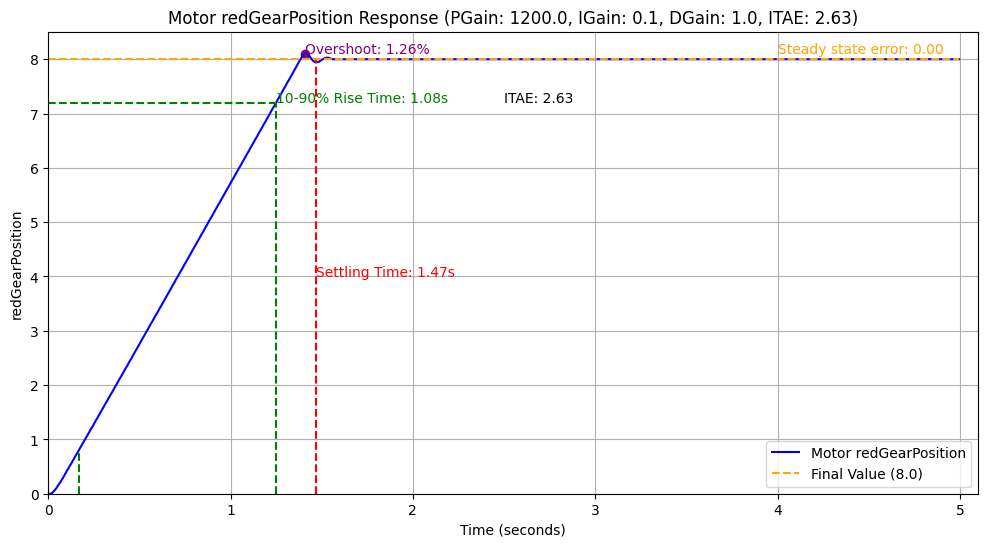
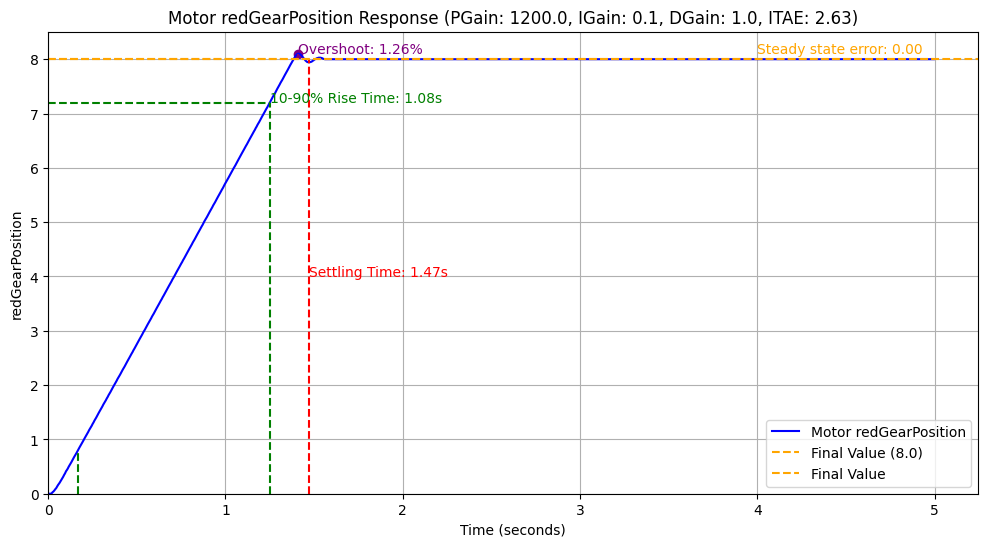
make graph_img and add dataplot_saveall

diff --git a/project1_dataplot.py b/project1_dataplot.py
@@ -1,96 +1,98 @@
 import pandas as pd
 import matplotlib.pyplot as plt
-import numpy as np
-from scipy.signal import find_peaks
 import re
+from scipy.signal import find_peaks
+import numpy as np
 
-# Constants
-FINAL_VALUE = 8.0
-TOLERANCE = 0.02 * FINAL_VALUE
+# Load the CSV file into a pandas DataFrame
 
-# Extract the gains from the file name using regular expressions
 file_name = "1200.0_0.1_1.0.csv"
 match = re.match(r"(\d+\.\d+)_(\d+\.\d+)_(\d+\.\d+)", file_name)
 if match:
     pgain, igain, dgain = match.groups()
+    
+file_path = './csv/' + file_name
+data = pd.read_csv(file_path, header=None, names=['Time', 'redGearPosition'], skipfooter=1, engine='python')
 
-# Set file paths
-file_path = f'./csv/{file_name}'
-graph_img_path = f"./graph_img/{pgain}_{igain}_{dgain}_response.png"
-
-# Read the data and ITAE value from the CSV
-data = pd.read_csv(file_path, header=None, names=['Time', 'Position'], skipfooter=1, engine='python')
 with open(file_path, 'r') as f:
-    itae_value = float(f.readlines()[-1].strip().split(',')[-1])
+    last_line = f.readlines()[-1].strip()
+    _, itae_value_str = last_line.split(',')
+    itae_value = float(itae_value_str)
 
-# Calculate the rise time (10% to 90% of the final value)
-rise_time_start = data['Time'][data['Position'] >= 0.1 * FINAL_VALUE].iloc[0]
-rise_time_end = data['Time'][data['Position'] >= 0.9 * FINAL_VALUE].iloc[0]
+
+# Define the final value as the constant 8
+final_value = 8.0
+
+# Calculate rise time from 10% to 90% of the final value
+rise_time_start = data['Time'][data['redGearPosition'] >= 0.1 * final_value].iloc[0]
+rise_time_end = data['Time'][data['redGearPosition'] >= 0.9 * final_value].iloc[0]
 rise_time = rise_time_end - rise_time_start
 
 # Find peak time
-peak_time = data['Time'][data['Position'] == data['Position'].max()].iloc[0]
+peak_time = data['Time'][data['redGearPosition'] == data['redGearPosition'].max()].iloc[0]
 
-# Find peaks and troughs to determine the settling time
-peaks, _ = find_peaks(data['Position'], height=FINAL_VALUE * (1 - TOLERANCE))
-troughs, _ = find_peaks(-data['Position'], height=-FINAL_VALUE * (1 + TOLERANCE))
+# 최종 값에 대한 허용 오차 범위 설정 (2%)
+tolerance = 0.02 * final_value
+
+# 최대값과 최소값(극값) 인덱스 찾기
+peaks, _ = find_peaks(data['redGearPosition'], height=final_value * (1 - tolerance))
+troughs, _ = find_peaks(-data['redGearPosition'], height=-final_value * (1 + tolerance))
+
+# 모든 극값 인덱스 결합
 extrema = np.sort(np.concatenate((peaks, troughs)))
 
-# Find the first extremum within the tolerance after the peak time
-settling_time = next((data['Time'][extremum] for extremum in extrema 
-                      if data['Time'][extremum] > peak_time and 
-                      FINAL_VALUE * (1 - TOLERANCE) <= data['Position'][extremum] <= FINAL_VALUE * (1 + TOLERANCE)),
-                     None)
+# peak_time 이후 최종 값 범위 내에 들어서는 첫 번째 극값 찾기
+for extrema_index in extrema:
+    if data['Time'][extrema_index] > peak_time:
+        if data['redGearPosition'][extrema_index] <= final_value * (1 + tolerance) and \
+           data['redGearPosition'][extrema_index] >= final_value * (1 - tolerance):
+            settling_time = data['Time'][extrema_index]
+            break
 
-# Calculate steady state error (SSE)
-steady_state_error = FINAL_VALUE - data['Position'].iloc[-1]
 
-# Plot the motor position response
+# Calculate steady state error (SSE) as the difference between the final value and the last redGearPosition value
+steady_state_error = final_value - data['redGearPosition'].iloc[-1]
+
+# Plotting the updated data with annotations for settling time and SSE
 plt.figure(figsize=(12, 6))
-plt.plot(data['Time'], data['Position'], label='Motor Position', color='blue')
+plt.plot(data['Time'], data['redGearPosition'], label='Motor redGearPosition', color='blue')
 
-# Annotate rise time
-plt.annotate(f'10-90% Rise Time: {rise_time:.2f}s', 
-             xy=(rise_time_end, FINAL_VALUE * 0.9), 
-             xytext=(rise_time_end, FINAL_VALUE * 0.95), 
-             arrowprops=dict(facecolor='green', shrink=0.05), 
-             color='green')
+# Annotate the rise time (10% to 90% of the final value)
+plt.plot([0, rise_time_end], [final_value * 0.9, final_value * 0.9], color='green', linestyle='--')
+plt.plot([rise_time_start, rise_time_start], [0, final_value * 0.1], color='green', linestyle='--')
+plt.plot([rise_time_end, rise_time_end], [0, final_value * 0.9], color='green', linestyle='--')
+plt.text(rise_time_end, final_value * 0.9, f'10-90% Rise Time: {rise_time:.2f}s', color='green')
 
-# Annotate settling time
-if settling_time:
-    plt.annotate(f'Settling Time: {settling_time:.2f}s', 
-                 xy=(settling_time, FINAL_VALUE), 
-                 xytext=(settling_time + 0.2, FINAL_VALUE * 0.5), 
-                 arrowprops=dict(facecolor='red', shrink=0.05), 
-                 color='red')
+# Annotate the settling time (first time after peak within 2% of final value)
+plt.plot([settling_time, settling_time], [0, final_value], color='red', linestyle='--')
+plt.text(settling_time, final_value * 0.5, f'Settling Time: {settling_time:.2f}s', color='red')
 
-# Annotate overshoot
-overshoot_value = data['Position'].max() - FINAL_VALUE
-overshoot_time = data['Time'][data['Position'] == data['Position'].max()].iloc[0]
-overshoot_percentage = (overshoot_value / FINAL_VALUE) * 100
-plt.annotate(f'Overshoot: {overshoot_percentage:.2f}%', 
-             xy=(overshoot_time, data['Position'].max()), 
-             xytext=(overshoot_time + 0.1, data['Position'].max() + 0.5), 
-             arrowprops=dict(facecolor='purple', shrink=0.05), 
-             color='purple')
+# Annotate the overshoot (percentage over the final value)
+# Calculate overshoot as the value over the final value
+overshoot_value = data['redGearPosition'].max() - final_value
+overshoot_time = data['Time'][data['redGearPosition'] == data['redGearPosition'].max()].iloc[0]
+overshoot_percentage = (data['redGearPosition'].max() - final_value) / final_value * 100
+plt.plot([overshoot_time, overshoot_time], [final_value, data['redGearPosition'].max()], color='purple', linestyle='--')
+plt.scatter([overshoot_time], [data['redGearPosition'].max()], color='purple')
+plt.text(overshoot_time, final_value + overshoot_value, f'Overshoot: {overshoot_percentage:.2f}%', color='purple')
 
 # Annotate steady state error
-plt.annotate(f'SSE: {steady_state_error:.2f}', 
-             xy=(data['Time'].iloc[-1], data['Position'].iloc[-1]), 
-             xytext=(data['Time'].iloc[-50], data['Position'].iloc[-1] + 0.5), 
-             arrowprops=dict(facecolor='orange', shrink=0.05), 
-             color='orange')
+plt.text(data['Time'].iloc[-200], data['redGearPosition'].iloc[-1]+0.1, f'Steady state error: {steady_state_error:.2f}', color='orange')
+# Final value line
+plt.hlines(final_value, 0, data['Time'].iloc[-1], colors='orange', linestyles='--', label='Final Value (8.0)')
 
-# Add final value line, title, labels, and legend
-plt.axhline(y=FINAL_VALUE, color='orange', linestyle='--', label='Final Value')
-plt.title(f'Motor Position Response (PGain: {pgain}, IGain: {igain}, DGain: {dgain}, ITAE: {itae_value:.2f})')
+# Title and labels
+title = f'Motor redGearPosition Response (PGain: {pgain}, IGain: {igain}, DGain: {dgain}, ITAE: {itae_value:.2f})'
+plt.title(title)
 plt.xlabel('Time (seconds)')
-plt.ylabel('Position')
+plt.ylabel('redGearPosition')
 plt.grid(True)
 plt.legend(loc='lower right')
-plt.xlim(left=0)
+plt.xlim(left=0, right=5.1)
 plt.ylim(bottom=0)
 
-# Save the figure and display the plot
-plt.savefig(graph_img_path, bbox_inches='tight')
+# Save the figure
+save_file_name = f"{pgain}_{igain}_{dgain}_response.png"
+plt.savefig(f'./graph_img/{save_file_name}', bbox_inches='tight')
+
 plt.show()

diff --git a/project1_dataplot saveall.py b/project1_dataplot saveall.py
@@ -1,0 +1,93 @@
+import os
+import pandas as pd
+import matplotlib.pyplot as plt
+import numpy as np
+from scipy.signal import find_peaks
+import re
+
+# Constants
+final_value = 8.0   
+TOLERANCE = 0.02 * final_value
+
+# Get a list of all CSV files in the `./csv` directory
+csv_files = [f for f in os.listdir('./csv') if f.endswith('.csv')]
+
+# Extract the gains from the file name using regular expressions
+for file_name in csv_files:
+    match = re.match(r"(\d+\.\d+)_(\d+\.\d+)_(\d+\.\d+)", file_name)
+    if match:
+        pgain, igain, dgain = match.groups()
+
+    # Set file paths
+    file_path = f'./csv/{file_name}'
+    graph_img_path = f"./graph_img/{pgain}_{igain}_{dgain}_response.png"
+
+    # Read the data and ITAE value from the CSV
+    data = pd.read_csv(file_path, header=None, names=['Time', 'redGearPosition'], skipfooter=1, engine='python')
+    with open(file_path, 'r') as f:
+        itae_value = float(f.readlines()[-1].strip().split(',')[-1])
+
+    # Calculate the rise time (10% to 90% of the final value)
+    rise_time_start = data['Time'][data['redGearPosition'] >= 0.1 * final_value].iloc[0]
+    rise_time_end = data['Time'][data['redGearPosition'] >= 0.9 * final_value].iloc[0]
+    rise_time = rise_time_end - rise_time_start
+
+    # Find peak time
+    peak_time = data['Time'][data['redGearPosition'] == data['redGearPosition'].max()].iloc[0]
+
+    # Find peaks and troughs to determine the settling time
+    peaks, _ = find_peaks(data['redGearPosition'], height=final_value * (1 - TOLERANCE))
+    troughs, _ = find_peaks(-data['redGearPosition'], height=-final_value * (1 + TOLERANCE))
+    extrema = np.sort(np.concatenate((peaks, troughs)))
+
+    # Find the first extremum within the tolerance after the peak time
+    settling_time = next((data['Time'][extremum] for extremum in extrema 
+                        if data['Time'][extremum] > peak_time and 
+                        final_value * (1 - TOLERANCE) <= data['redGearPosition'][extremum] <= final_value * (1 + TOLERANCE)),
+                        None)
+
+    # Calculate steady state error (SSE)
+    steady_state_error = final_value - data['redGearPosition'].iloc[-1]
+
+    # Plot the motor redGearPosition response
+    plt.figure(figsize=(12, 6))
+    plt.plot(data['Time'], data['redGearPosition'], label='Motor redGearPosition', color='blue')
+
+    # Annotate the rise time (10% to 90% of the final value)
+    plt.plot([0, rise_time_end], [final_value * 0.9, final_value * 0.9], color='green', linestyle='--')
+    plt.plot([rise_time_start, rise_time_start], [0, final_value * 0.1], color='green', linestyle='--')
+    plt.plot([rise_time_end, rise_time_end], [0, final_value * 0.9], color='green', linestyle='--')
+    plt.text(rise_time_end, final_value * 0.9, f'10-90% Rise Time: {rise_time:.2f}s', color='green')
+
+    # Annotate the settling time (first time after peak within 2% of final value)
+    plt.plot([settling_time, settling_time], [0, final_value], color='red', linestyle='--')
+    plt.text(settling_time, final_value * 0.5, f'Settling Time: {settling_time:.2f}s', color='red')
+
+    # Annotate the overshoot (percentage over the final value)
+    # Calculate overshoot as the value over the final value
+    overshoot_value = data['redGearPosition'].max() - final_value
+    overshoot_time = data['Time'][data['redGearPosition'] == data['redGearPosition'].max()].iloc[0]
+    overshoot_percentage = (data['redGearPosition'].max() - final_value) / final_value * 100
+    plt.plot([overshoot_time, overshoot_time], [final_value, data['redGearPosition'].max()], color='purple', linestyle='--')
+    plt.scatter([overshoot_time], [data['redGearPosition'].max()], color='purple')
+    plt.text(overshoot_time, final_value + overshoot_value, f'Overshoot: {overshoot_percentage:.2f}%', color='purple')
+
+    # Annotate steady state error
+    plt.text(data['Time'].iloc[-200], data['redGearPosition'].iloc[-1]+0.1, f'Steady state error: {steady_state_error:.2f}', color='orange')
+    # Final value line
+    plt.hlines(final_value, 0, data['Time'].iloc[-1], colors='orange', linestyles='--', label='Final Value (8.0)')
+
+    # Add final value line, title, labels, and legend
+    plt.axhline(y=final_value, color='orange', linestyle='--', label='Final Value')
+    plt.title(f'Motor redGearPosition Response (PGain: {pgain}, IGain: {igain}, DGain: {dgain}, ITAE: {itae_value:.2f})')
+    plt.xlabel('Time (seconds)')
+    plt.ylabel('redGearPosition')
+    plt.grid(True)
+    plt.legend(loc='lower right')
+    plt.xlim(left=0)
+    plt.ylim(bottom=0)
+
+    # Save the figure and display the plot
+    plt.savefig(graph_img_path, bbox_inches='tight')
+    
+    # plt.show()
